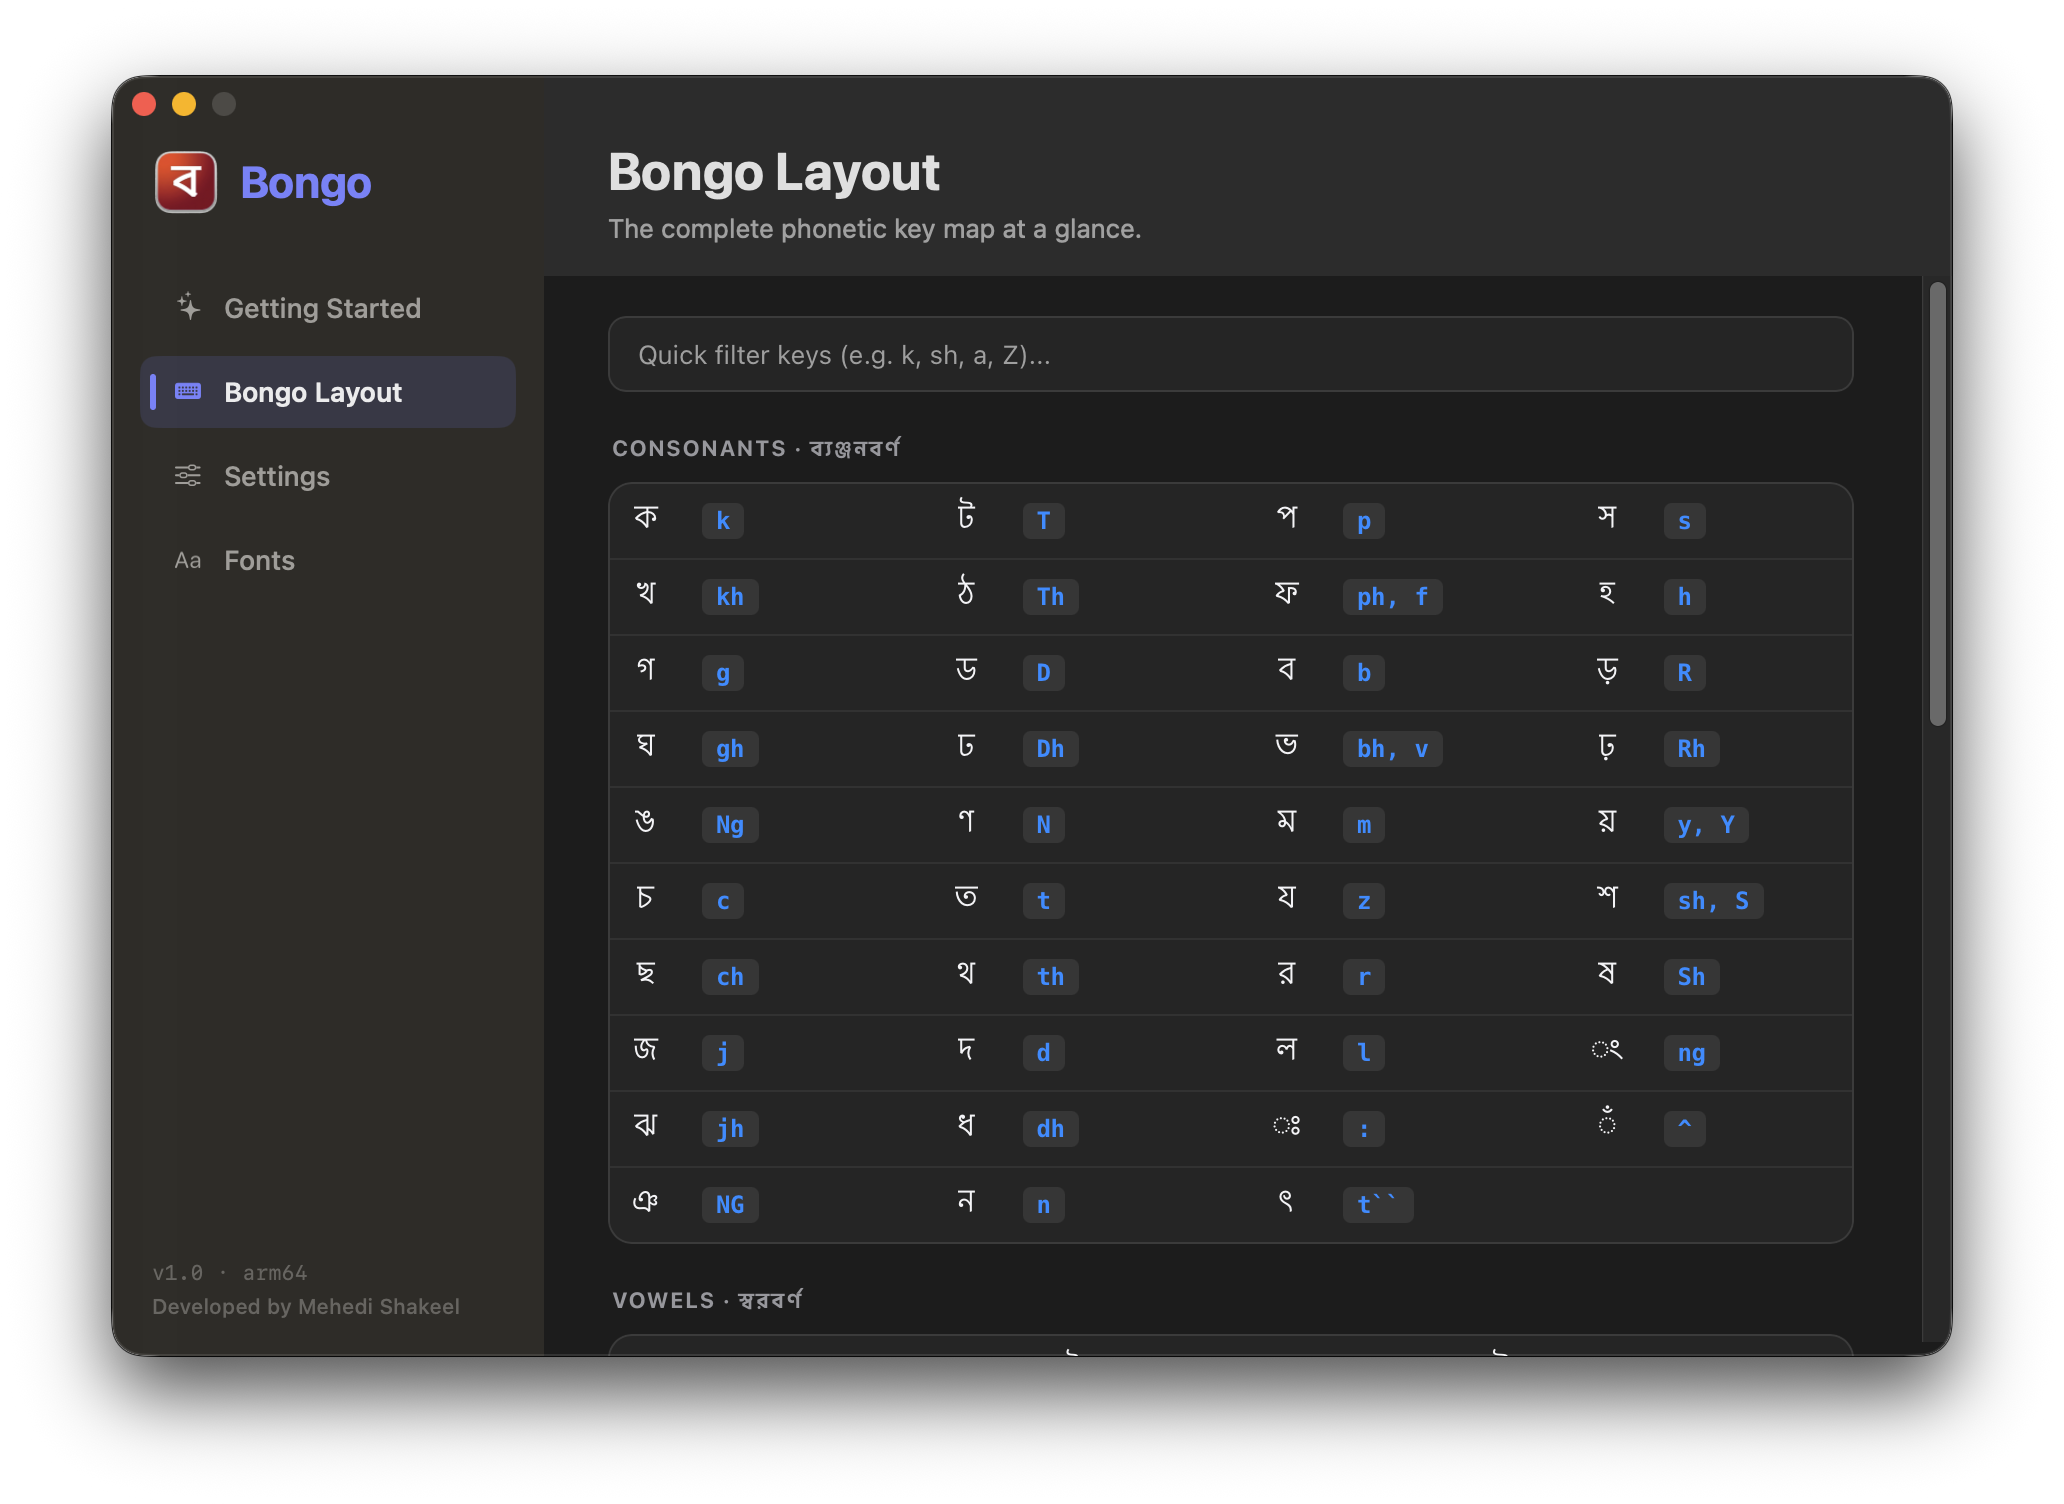
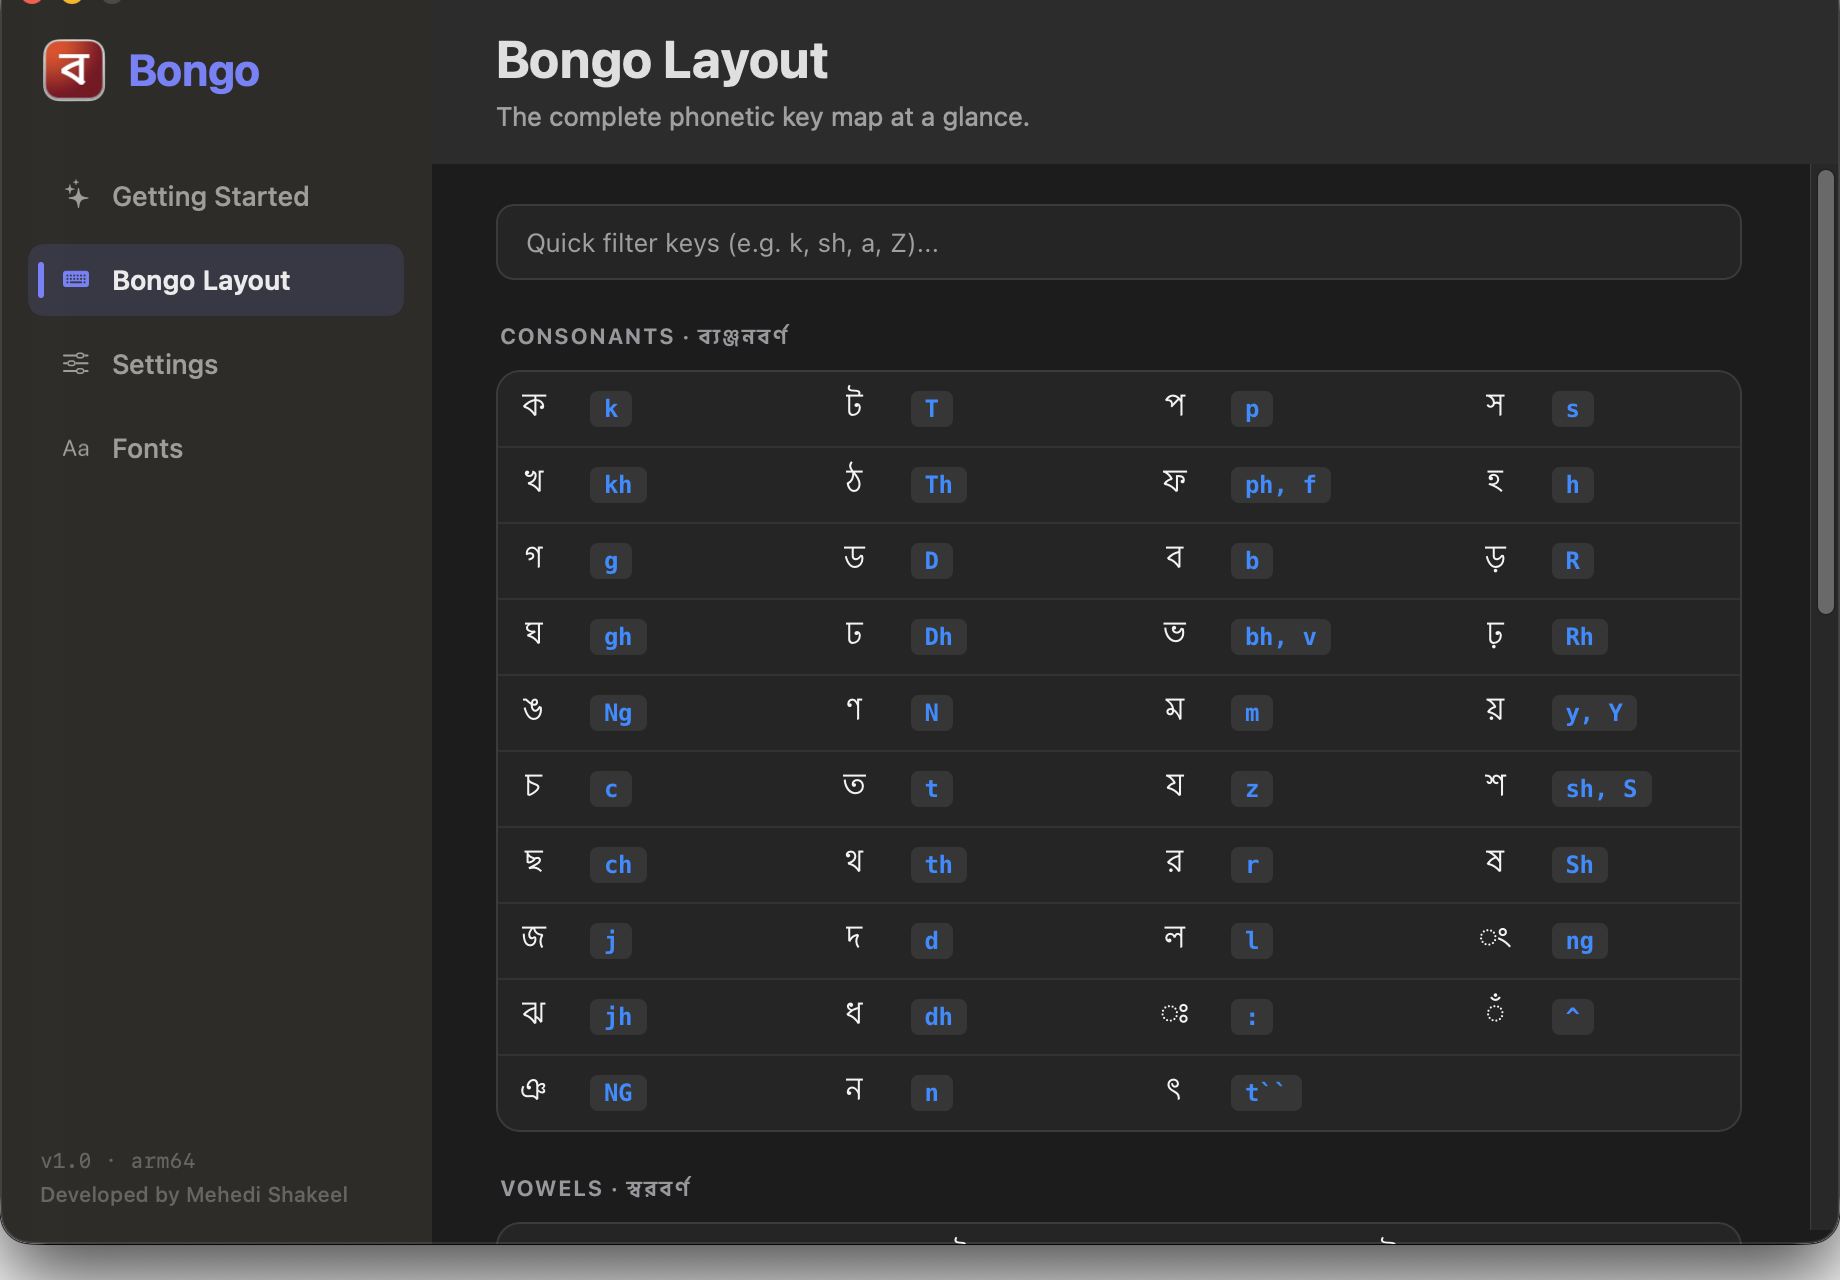
fix(docs): normalize all 4 macOS screenshots to exact 1840x1280 frame and add cache busters

diff --git a/docs/index.html b/docs/index.html
@@ -721,7 +721,7 @@
                 <div class="tab-showcase-panel">
                     <div class="gallery-item active" id="tab-welcome" role="tabpanel">
                         <div class="mac-preview-frame">
-                            <img src="assets/bongo-getting-started.png" alt="Bongo Getting Started Window" class="preview-img" loading="lazy">
+                            <img src="assets/bongo-getting-started.png?v=1.0.1" alt="Bongo Getting Started Window" class="preview-img" loading="lazy">
                         </div>
                         <div class="preview-caption">
                             <h3 data-i18n="caption.welcome_title">Frictionless Onboarding</h3>
@@ -731,7 +731,7 @@
 
                     <div class="gallery-item" id="tab-layout" role="tabpanel">
                         <div class="mac-preview-frame">
-                            <img src="assets/bongo-layout.png" alt="Bongo Layout Key Map Window" class="preview-img" loading="lazy">
+                            <img src="assets/bongo-layout.png?v=1.0.1" alt="Bongo Layout Key Map Window" class="preview-img" loading="lazy">
                         </div>
                         <div class="preview-caption">
                             <h3 data-i18n="caption.layout_title">Visual Phonetic Key Map</h3>
@@ -741,7 +741,7 @@
 
                     <div class="gallery-item" id="tab-settings" role="tabpanel">
                         <div class="mac-preview-frame">
-                            <img src="assets/bongo-settings.png" alt="Bongo Settings Window" class="preview-img" loading="lazy">
+                            <img src="assets/bongo-settings.png?v=1.0.1" alt="Bongo Settings Window" class="preview-img" loading="lazy">
                         </div>
                         <div class="preview-caption">
                             <h3 data-i18n="caption.settings_title">3 Flexible Typing Modes</h3>
@@ -751,7 +751,7 @@
 
                     <div class="gallery-item" id="tab-fonts" role="tabpanel">
                         <div class="mac-preview-frame">
-                            <img src="assets/bongo-fonts.png" alt="Bongo Font Customization and Live Preview" class="preview-img" loading="lazy">
+                            <img src="assets/bongo-fonts.png?v=1.0.1" alt="Bongo Font Customization and Live Preview" class="preview-img" loading="lazy">
                         </div>
                         <div class="preview-caption">
                             <h3 data-i18n="caption.fonts_title">Customizable Bengali Typography</h3>

diff --git a/docs/styles.css b/docs/styles.css
@@ -1487,10 +1487,10 @@ kbd {
 
 .mac-preview-frame {
     background: transparent;
-    border: none;
-    border-radius: 0;
-    box-shadow: none;
-    overflow: visible;
+    border: 1px solid var(--border-hairline);
+    border-radius: 18px;
+    box-shadow: 0 18px 46px rgba(0, 0, 0, 0.16), 0 2px 10px rgba(0, 0, 0, 0.08);
+    overflow: hidden;
     display: flex;
     justify-content: center;
     align-items: center;
